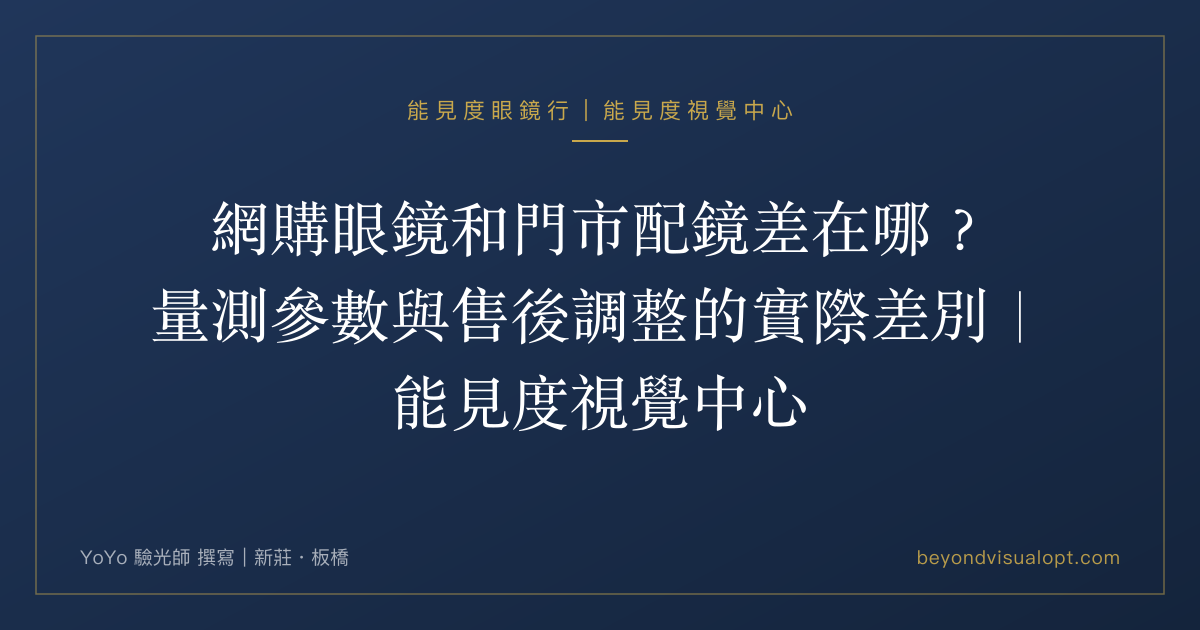
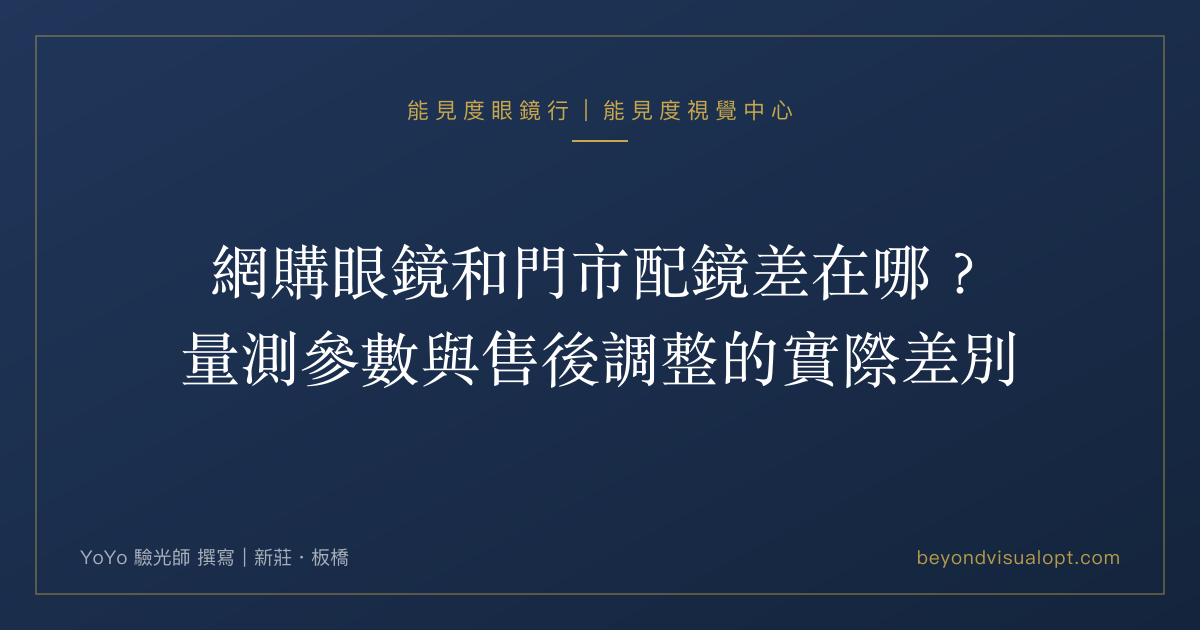
配眼鏡分類第 1 步：標題修正＋已上線錯誤緊急修正（國文編審→法務→交叉快篩🟢）
- 新莊／板橋配眼鏡指南表格依施行細則第四條更正（眼鏡公司須設驗光所才能驗光），結論句重寫；拿掉新莊 FAQ 價格
- 全站英文頁拿掉「free」，只保留「取件後鏡架調整不另外收費（限在能見度配的眼鏡）」
- glasses-dizzy 頂點距離數字更正為約 0.2D／0.4D，附換算公式；稜鏡改寫為「驗光結果中加入稜鏡補償」
- HOYA 改為「經銷」；choose-optician 中英版轉介句、兒童列、儀器名、白話結論與 3 秒重點
- online-frame、old-frame 常見問題格式修正（schema 0→4 題）；4 篇🟢文章換標題並重產分享圖卡

Changed region(s): [[0.1233, 0.3016, 0.8633, 0.6937], [0.8017, 0.3317, 0.8325, 0.3619]]

diff --git a/src/content/blog/online-glasses-vs-store.md b/src/content/blog/online-glasses-vs-store.md
@@ -1,5 +1,5 @@
 ---
-title: 網購眼鏡和門市配鏡差在哪？量測參數與售後調整的實際差別｜能見度視覺中心
+title: 網購眼鏡和門市配鏡差在哪？量測參數與售後調整的實際差別
 date: 2026-08-08
 tag: "配鏡知識"
 excerpt: 網購眼鏡的度數通常是對的，差別在度數以外那幾個量測參數，以及交件之後還能不能調。這篇把訂單上填得到的欄位和配鏡實際會用到的資料排在一起比較，也說清楚我們接受帶網購框來配鏡片，還有哪些框我們會建議別勉強。新莊、板橋能見度視覺中心，由驗光人員量測與評估。
@@ -19,7 +19,7 @@ instagram: ""
 
 ---
 
-## 一副眼鏡要用到的資料，不只訂單上那幾欄
+## 網購眼鏡和門市配鏡，差在度數以外的參數
 
 | 配鏡要用到的資料 | 網路訂購時通常怎麼來 | 門市怎麼來 |
 |---|---|---|
@@ -32,25 +32,35 @@ instagram: ""
 | **交件之後** | 多以退換貨處理 | 可回店追蹤與調整 |
 | **裝配工藝（無框、半框）** | 依平台既定加工方式 | 依框的結構現場開槽或鑽孔裝配 |
 
-表上沒有哪一邊比較高級，兩邊給的東西不一樣。
+表上沒有哪一邊比較高級，兩邊給的東西不一樣。為什麼度數對了還是會不對？把上面幾格串起來就清楚了。
 
-為什麼度數對了還是會不對？把上面幾格串起來就清楚了。每片鏡片都有一個光學中心，是它光學表現最理想的那一點，配鏡時這一點必須對準你的瞳孔。對不準，光線就從偏掉的位置通過，產生非預期的稜鏡效應，眼睛得多花力氣代償，度數越深放大得越明顯（原理寫在[瞳距（PD）是什麼、量錯了會怎樣](/blog/pupillary-distance-pd/)）。
+### 光學中心與瞳距
 
-還有一項更少被提到：鏡片離眼睛多遠，會改變它實際發揮的度數。同一副眼鏡往鼻樑下滑幾毫米，[頂點距離](/blog/vertex-distance/)就變了，高度數的人這點差距是有感的。而滑不滑、貼不貼，取決於鏡腳和鼻墊有沒有照你的臉調過，這件事必須有你的臉在現場。
+每片鏡片都有一個光學中心，是它光學表現最理想的那一點，配鏡時這一點必須對準你的瞳孔。對不準，光線就從偏掉的位置通過，產生非預期的稜鏡效應，眼睛得多花力氣代償，度數越深放大得越明顯（原理寫在[瞳距（PD）是什麼、量錯了會怎樣](/blog/pupillary-distance-pd/)）。
+
+### 頂點距離與鏡架貼合
+
+比瞳距更少被提到的，是鏡片離眼睛多遠：這會改變它實際發揮的度數。同一副眼鏡往鼻樑下滑幾毫米，[頂點距離](/blog/vertex-distance/)就變了，高度數的人這點差距是有感的。而滑不滑、貼不貼，取決於鏡腳和鼻墊有沒有照你的臉調過，這件事必須有你的臉在現場。
 
 ---
 
-## 怎麼選：度數深不深、要不要無框，答案就分兩邊
+## 網購眼鏡適合誰？哪些人建議到門市配
+
+### 適合網購：度數不高、當備用
 
 度數不高、幾乎沒有散光，要的是一副備用眼鏡（放車上、放辦公室、或當太陽眼鏡），網購是合理的選擇。這種條件下參數的容錯空間比較大，把度數和瞳距抄準，多半就堪用。
 
-度數深、散光度數大、要配漸進多焦點，或想選無框、半框的人，情況反過來。這幾類對光學中心的位置與裝配工藝特別敏感，偏一點就反應在戴起來的感受上，建議現場量測與裝配。
+### 建議到門市：度數深、散光大、多焦點、無框半框
 
-已經買了、戴起來就是怪的人，先別急著判定自己不適應。量一次：把現有眼鏡的度數與光學中心位置量出來，跟你的瞳距、配鏡高度比對，才知道問題出在參數還是鏡架沒調。
+情況反過來的是這四類。它們對光學中心的位置與裝配工藝特別敏感，偏一點就反應在戴起來的感受上，建議現場量測與裝配。
+
+### 已經買了、戴起來怪
+
+先別急著判定自己不適應。量一次：把現有眼鏡的度數與光學中心位置量出來，跟你的瞳距、配鏡高度比對，才知道問題出在參數還是鏡架沒調。
 
 ---
 
-## 帶來門市，可以做的幾件事
+## 網購眼鏡帶來門市，可以做的事
 
 先量現有眼鏡的實際度數與光學中心落點，再量你的瞳距與配鏡高度，然後看框。鏡架能調的就調，鼻墊、鏡腳、傾斜角調完，有時候脹的感覺就消掉一半。
 
@@ -72,25 +82,23 @@ instagram: ""
 
 ---
 
-## 常見問題
+## 網購眼鏡常見問題
 
-**Q：網購眼鏡的度數填對了，為什麼戴起來還是怪？**
+### Q：網購眼鏡的度數填對了，為什麼戴起來還是怪？
 
 因為度數只決定「鏡片磨多強」，另一組參數決定「這個度數對在哪」。鏡片的光學中心要對準瞳孔，得用到瞳距與配鏡高度；鏡片離眼睛的距離（頂點距離）會影響它實際發揮的度數；鏡框在臉上的傾斜角度也會改變光線通過的路徑。這幾項在網路訂購流程裡多半量不到，只能用平均值或出廠設定。度數對、位置偏，戴起來就是說不上來的脹或暈，度數越深越明顯。建議把眼鏡帶到門市，由驗光人員量過再判斷。
 
-**Q：網購買的鏡框，可以帶到門市配鏡片嗎？**
+### Q：網購買的鏡框，可以帶到門市配鏡片嗎？
 
 可以，這是常做的服務。框帶來，做完整驗光與瞳距、配鏡高度、頂點距離、鏡架配適的量測後選配鏡片、裝配，就是一副能戴的眼鏡，量測標準跟在店裡選框的完全一樣。費用是鏡片價格加固定加工費，不因框的來源加價，報價在製作前講清楚。動工前框況與材質由驗光人員檢視，材質老化或破損風險較高的框會先告知風險，你同意後才做。
 
-**Q：網購眼鏡戴起來不舒服，門市可以幫我調嗎？**
+### Q：網購眼鏡戴起來不舒服，門市可以幫我調嗎？
 
 可以先看。鏡架調整（鼻墊、鏡腳、傾斜角）能不能調得動要看框的結構與材質，有些材質施力過大會有變形或斷裂的風險，所以會先評估再動手。但如果不舒服的原因是光學中心偏掉或度數本身不合，調鏡架幫助有限，那是位置與度數的問題。量測比對之後才知道屬於哪一種。
 
 ---
 
-## 度數對了，配鏡才剛開始
-
-桌上那副眼鏡最後留了下來。量完瞳距與配鏡高度，發現光學中心比他的瞳孔低了一段，鏡架也早就被撐開。框況沒問題，於是調好鏡架、重新配一組鏡片，框繼續用。
+那位說戴起來會脹的顧客，網購那副眼鏡最後留了下來。量完瞳距與配鏡高度，發現光學中心比他的瞳孔低了一段，鏡架也早就被撐開。框況沒問題，於是調好鏡架、重新配一組鏡片，框繼續用。
 
 要判斷你手上那副是哪一種情況，帶著它來一趟比隔著螢幕猜快得多。[自帶鏡框配鏡片指南](/guide/byo-frame-lenses/)那頁有完整流程跟收費方式，想直接帶框來的先看那個。
 

diff --git a/src/content/blog-en/xinzhuang-glasses-guide.md b/src/content/blog-en/xinzhuang-glasses-guide.md
@@ -2,7 +2,7 @@
 title: "Where to Get a Vision Exam and Glasses in Xinzhuang, New Taipei: A Guide for English Speakers"
 date: 2026-06-25
 tag: "Local Guide"
-excerpt: "Living in Xinzhuang and need glasses or a vision exam? Here's how Taiwan's optometry clinics differ from regular glasses shops, what to ask before you buy, and where to find a store near Fuda MRT Station that can explain the basics in English."
+excerpt: "Living in Xinzhuang and need glasses or a vision exam? Here's how Taiwan's optometry clinics differ from regular glasses shops, what to ask before you buy, and where to find a store near Xinzhuang MRT Station that can explain the basics in English."
 image: ""
 youtube: ""
 instagram: ""
@@ -23,12 +23,11 @@ Something many newcomers to Taiwan don't realize: a licensed "optometry clinic" 
 | | Optometry clinic | Regular glasses shop |
 |--|------|----------|
 | Legal basis | Optometrists Act | Standard business registration |
-| Performing vision exams | Licensed optometrists required | No qualification requirement |
-| Issuing refraction reports | Legal | Not legal |
-| Binocular vision assessment | Available | Not available |
-| National Health Insurance contracts | Some clinics | No |
+| Performing vision exams | Licensed optometrists required | Must set up an in-store optometry office staffed by licensed optometry personnel |
 
-**Bottom line: if you have any visual complaints — dizziness with glasses, eye strain, prescriptions that never seem right — go to a licensed optometry clinic, not a regular glasses shop.** If you just need a new pair, your prescription has been stable for years, and you have no special needs, a regular shop can handle it.
+Under Article 4 of the Enforcement Rules of the Optometrists Act, a glasses shop that wants to perform vision exams must set up a registered optometry office in the store.
+
+**Bottom line: if you have any visual complaints — dizziness with glasses, eye strain, prescriptions that never seem right — look for a place that does a full exam including a binocular vision assessment, not just a prescription check.** If your prescription has been stable for years and you have no special needs, you have more options.
 
 ---
 
@@ -44,7 +43,7 @@ A complete clinical vision exam takes at least 45 minutes. A 10–15 minute "qui
 ZEISS, HOYA, Essilor, and Nikon are the mainstream premium lens brands in Taiwan. Confirm the shop is an authorized dealer rather than selling counterfeits or grey-market imports.
 
 **4. Can I come back for adjustments if the glasses feel off?**
-A reputable clinic or shop should offer free follow-up visits and adjustments. Be cautious of anywhere that doesn't provide after-sales service.
+Before choosing a shop, ask whether you can come back for adjustments and whether there's a charge. For glasses fitted at Beyond Visual, frame adjustments after pickup are not charged separately.
 
 **5. Do they offer myopia tracking for children?**
 If you're getting glasses for your child, their prescription needs regular monitoring. Make sure the shop offers scheduled re-examinations rather than a one-and-done sale.
@@ -53,7 +52,7 @@ If you're getting glasses for your child, their prescription needs regular monit
 
 ## Beyond Visual Optometry (Xinzhuang)
 
-**Address:** No. 419-1, Zhongzheng Road, Xinzhuang District, New Taipei City (about a 5-minute walk from Fuda MRT Station)
+**Address:** No. 419-1, Zhongzheng Road, Xinzhuang District, New Taipei City (about an 8-minute walk from Xinzhuang MRT Station)
 **Phone:** +886-2-2206-6700
 **License:** New Taipei City Optometry Clinic License No. 5Y31060655
 **Lead optometrist:** Optometrist YoYo (licensed optometrist, License No. 003309)
@@ -73,7 +72,7 @@ If you're getting glasses for your child, their prescription needs regular monit
 - Frame brands including Ray-Ban, OLIVER PEOPLES, EMPORIO ARMANI, BVLGARI, agnès b., and MINAMOTO
 - Expert repair, precision adjustment, and lens installation for premium frames such as Lindberg, ic! berlin, Cartier, and Chrome Hearts (repair expertise; not an authorized dealer)
 - Regular myopia tracking for children
-- Free follow-up visits and adjustments after your fitting
+- Frame adjustments after pickup are not charged separately for glasses fitted with us
 
 ---
 
@@ -85,7 +84,7 @@ Beyond Visual Optometry is located at No. 419-1, Zhongzheng Road, Xinzhuang Dist
 
 **Q: How much do glasses cost in Xinzhuang?**
 
-Lens prices vary widely by brand and function. Basic single-vision lenses run about NT$2,000–6,000; ZEISS progressive lenses start around NT$12,000 and can exceed NT$30,000 depending on the level of customization. It's worth clarifying your own needs before setting a budget.
+The cost depends on lens type, refractive index, coatings and frame, so an accurate quote comes after the exam and once you've chosen a frame. As an optometry clinic, our fee schedule is posted in the store as required by law.
 
 **Q: Is it convenient for Fu Jen Catholic University students and staff?**
 

diff --git a/src/content/blog-en/glasses-uncomfortable-3-reasons.md b/src/content/blog-en/glasses-uncomfortable-3-reasons.md
@@ -32,7 +32,7 @@ If you have **phoria** — a tendency for your eyes to drift out of alignment wh
 
 **Phoria is not the same as strabismus.** It's not a visible misalignment of the eyes, so most people have no idea they have this issue — and it's never been picked up, because a standard refraction doesn't test for it.
 
-### What Is Phoria?
+### What Does It Mean When Your Eyes Have to Work to Line Up?
 
 There's usually a slight gap between where your eyes naturally point at rest (with one eye covered) and where they actively align when working together with both eyes open — this gap is called the **phoria amount**.
 
@@ -48,7 +48,7 @@ A complete refraction at Beyond Visual Optometry includes:
 - **AC/A ratio assessment:** analyzes the relationship between accommodation and convergence
 - **Worth 4-dot test / stereopsis testing:** confirms binocular fusion function
 
-If the phoria amount exceeds what your eye muscles can compensate for, our licensed optometry staff will assess whether prism compensation should be added to your prescription; if vision therapy or further medical treatment is warranted, we'll help refer you to an ophthalmologist.
+If the phoria amount exceeds what your eye muscles can compensate for, our licensed optometry staff will assess whether prism compensation should be included in your refraction result; if vision therapy or further medical treatment is warranted, we'll help refer you to an ophthalmologist.
 
 ---
 
@@ -62,7 +62,7 @@ Glasses aren't as simple as "put the prescription into the lens." Lens design ha
 
 Single-vision lenses are optically optimized for static distance vision. If you sit in front of a computer for 8 hours, your eyes are constantly accommodating to a 50–70cm screen distance, keeping your ciliary muscle in a prolonged contracted state — feeling "exhausted" by the time you get home is a direct result.
 
-**Office lenses** or **ZEISS Digital Lens** build in a subtle accommodation-assist zone in the lower part of the lens, so your ciliary muscle doesn't have to work at full capacity for screen viewing, reducing fatigue at the source.
+**Office lenses** or **digital single-vision lenses** add a slight near power in the lower part of the lens; whether they suit you depends on your exam results and actual working distances.
 
 **Scenario 2: You have an early tendency toward presbyopia, but got fitted with a standard myopia prescription**
 
@@ -151,9 +151,9 @@ So the order matters: first establish whether the discomfort is even related to 
 
 Completely — and it's very common. The eye chart only tests static distance clarity; it doesn't test binocular coordination, accommodation, or visual comfort at your actual working distance. Someone can have 20/20 vision on the chart and still have poor binocular efficiency, leading to fatigue with extended use.
 
-**Q: Does phoria require surgery?**
+**Q: If your eyes have to work to line up, who handles treatment beyond glasses?**
 
-Most phoria doesn't require surgery. Mild phoria can often be improved with prism compensation added to the prescription for visual comfort; treatments like vision therapy and surgery fall under an ophthalmologist's evaluation, and are usually only considered for larger-angle, severe cases that can't be relieved another way.
+An ophthalmologist. A licensed optometrist can, where appropriate, include prism in the refraction result as the basis for your lenses, to make using both eyes together easier; treatments such as vision therapy or surgery are medical procedures, and whether they're needed is for an ophthalmologist to evaluate.
 
 **Q: If I'm still uncomfortable after getting glasses, should I go straight to an ophthalmologist or back to the optometrist?**
 

diff --git a/src/content/blog-en/banqiao-glasses-guide.md b/src/content/blog-en/banqiao-glasses-guide.md
@@ -23,12 +23,11 @@ This article is here to help you understand **what actually matters when getting
 | | Optometry Clinic | Regular Glasses Shop |
 |--|------|----------|
 | Legal basis | Optometrists Act | Standard business registration |
-| Exam qualification | Licensed optometrist required | No requirement |
-| Full binocular vision assessment | Available | Not available |
-| Refraction report | Legally issued | Not legal |
-| Handling complex visual issues | Equipped to assess | Not equipped to assess |
+| Exam qualification | Licensed optometrist required | Must set up an in-store optometry office staffed by licensed optometry personnel |
 
-In short: **if all you need is a simple, straightforward myopia prescription, a regular glasses shop can handle that. But if you have dizziness, eye strain, presbyopia, or a need for progressive lenses, go to a licensed optometry clinic** — this isn't just a matter of preference; it's how the regulations divide the work.
+Under Article 4 of the Enforcement Rules of the Optometrists Act, a glasses shop that wants to perform vision exams must set up a registered optometry office in the store.
+
+In short: **if your prescription is stable and you just want a new pair of myopia glasses, the bar is lower; but if you have dizziness, eye strain, presbyopia, or a need for progressive lenses, look for an optometry clinic that does a full exam including a binocular vision assessment.**
 
 ---
 
@@ -71,13 +70,11 @@ People staring at a screen more than 8 hours a day have a noticeably higher rate
 - Professional progressive lens fitting and adaptation-period follow-up for presbyopia
 - Regular myopia tracking for children
 - Precision fitting for high myopia (with vertex-distance compensation)
-- Free follow-up adjustments after your fitting
+- Frame adjustments after pickup are not charged separately for glasses fitted with us
 
 ---
 
 ## 30 Years in Banqiao, and We've Never Chased the Low Price
-
-Since opening in 1992, Beyond Visual Optometry has seen far too many customers pay a much higher price for "cheap glasses" — refitting, dizziness, worsening vision.
 
 Our position is clear: **we don't chase the most expensive option, only the one that actually fits you.** Every pair we fit is recommended after a full vision exam, based on your visual needs, lifestyle, and face shape — never just pulled off a shelf to fill an order.
 
@@ -89,7 +86,7 @@ Our position is clear: **we don't chase the most expensive option, only the one 
 A: Beyond Visual Optometry is located at No. 28, Ln. 47, Sec. 2, Shuangshi Rd., Banqiao Dist., New Taipei City, a certified ZEISS partner dealer, phone +886-2-2253-1246, about a 5-minute walk from Jiangzicui MRT Station.
 
 **Q: Where's the most reliable place in Banqiao to get progressive lenses?**
-A: Progressive lenses need a full assessment from a licensed optometrist at an optometry clinic, including addition-power measurement, fitting-height measurement, and lifestyle analysis. Beyond Visual Optometry (Banqiao) provides a complete progressive-lens fitting process along with adaptation-period follow-up.
+A: Progressive lenses need a full assessment by licensed optometry staff at an optometry clinic, including addition-power measurement, fitting-height measurement, and lifestyle analysis. Beyond Visual Optometry (Banqiao) provides a complete progressive-lens fitting process along with adaptation-period follow-up.
 
 **Q: How long does it typically take to get glasses made in Banqiao?**
 A: Standard single-vision lenses generally take 3–7 business days; ZEISS Individual² custom lenses take about 10–14 business days (manufactured at the ZEISS factory in Germany).

diff --git a/src/content/blog/xinzhuang-glasses-guide.md b/src/content/blog/xinzhuang-glasses-guide.md
@@ -27,12 +27,11 @@ instagram: ""
 | | 驗光所 | 一般眼鏡行 |
 |--|------|----------|
 | 法規依據 | 驗光人員法 | 商業登記 |
-| 執行驗光 | 需持照驗光人員 | 無資格限制 |
-| 開立驗光報告 | 合法 | 不合法 |
-| 雙眼視覺評估 | 可執行 | 無法執行 |
-| 健保特約 | 部分有 | 無 |
+| 執行驗光 | 需持照驗光人員 | 須在店內設立驗光所，由持照驗光人員執行 |
 
-**結論：如果你有視覺困擾（頭暈、眼睛疲勞、度數老是不準），一定要去驗光所，而不是一般眼鏡行。** 只是要配鏡、度數穩定多年、沒有特殊需求，一般眼鏡行也可以應付。
+這一格的依據是《驗光人員法施行細則》第四條。換句話說，招牌寫什麼不是重點，要看店裡有沒有登記驗光所，查法可以看[驗光師和驗光生差在哪？怎麼確認幫你驗光的人有執照](/blog/optometrist-license-check/)。
+
+**結論：如果你有視覺困擾（頭暈、眼睛疲勞、度數老是不準），要找能做完整驗光、包含雙眼視覺評估的地方，不是只量度數。** 度數穩定多年、沒有特殊需求，選擇就寬得多。
 
 ---
 
@@ -48,7 +47,7 @@ instagram: ""
 蔡司（ZEISS）、HOYA、Essilor、Nikon 是台灣主流高端鏡片品牌。確認是否為原廠授權經銷商，而非仿冒品或水貨。
 
 **4. 配鏡後如果不舒服可以回店嗎？**
-正規的驗光所或眼鏡行應提供免費回店調整服務。不提供售後服務的店家要注意。
+配鏡後能不能回店調整、要不要另外收費，選店前先問清楚。在能見度配的眼鏡，取件後的鏡架調整不另外收費。
 
 **5. 有沒有兒童近視追蹤服務？**
 如果是幫孩子配鏡，需要定期追蹤度數變化。確認店家有提供定期複驗服務，而不是配完就結束。
@@ -59,19 +58,17 @@ instagram: ""
 
 能見度視覺中心 × 比泱驗光所就在新莊中正路419-1號，捷運新莊站步行約 8 分鐘，由持照驗光人員一對一驗光，主理驗光師是鄭家侑（YoYo）。
 
-**交通、營業時間、完整服務項目與常見問題 → [新莊眼鏡行・驗光所門市介紹](/xinzhuang/)**
+**交通、停車、營業時間、完整服務項目與常見問題 → [新莊眼鏡行・驗光所門市介紹](/xinzhuang/)**
 
 ---
 
 ## 常見問題
 
 **Q：配眼鏡大概多少錢？**
-A：鏡片費用依品牌和功能差異大。基本單光鏡片約 NT$2,000–6,000；蔡司多焦點約 NT$12,000–30,000 以上（依訂製程度）。配鏡前建議先了解自己的需求再評估預算。
+A：費用依鏡片種類、折射率、鍍膜與鏡框而定，驗光完、選好鏡框才報得準。驗光所的收費標準依法揭示在門市，來店就看得到。
 
 **Q：輔大學生可以去嗎？**
 A：當然可以。能見度視覺中心就在中正路上、距輔大步行可達，有許多輔大師生是我們的長期顧客。
-
-> 想找新莊眼鏡行推薦的實體門市？看看 [新莊店介紹與交通資訊](/xinzhuang/)——地址、捷運步行時間、停車與營業時間都在那頁。
 
 ---
 

diff --git a/src/content/blog-en/banqiao-progressive-lens-guide.md b/src/content/blog-en/banqiao-progressive-lens-guide.md
@@ -35,7 +35,7 @@ The real question was never "do I have presbyopia" — it's **how you're going t
 - **Frame drift** — a frame that shifts or loosens over time, taking the optical center with it
 - **An incomplete adaptation period** — your brain needs 2–4 weeks to learn the new visual zones
 
-In other words: **whether progressives work out for you is half about the lens, half about the fitting and adjustment.** This is exactly why it matters to choose a store with a thorough eye-exam process and a willingness to provide free follow-up adjustments after the fitting.
+In other words: **whether progressives work out for you is half about the lens, half about the fitting and adjustment.** This is exactly why it matters to choose a store with a thorough eye-exam process and clear terms for follow-up adjustments after the fitting.
 
 ## Thing Three: What a 45–60 Minute Exam Gets You That a 10-Minute One Doesn't
 
@@ -53,7 +53,7 @@ If you have a strong prescription, significant astigmatism, or are particular ab
 
 Progressive lenses come with an adaptation period, and frames drift out of alignment. When you're choosing a store, just ask one question directly: "**Is there a charge for adjustments after I pick up my glasses?**"
 
-Beyond Visual Optometry's answer: no. Adaptation-period follow-up visits and precision frame adjustments are both free — because the fitting isn't done until it's actually comfortable.
+Beyond Visual Optometry's answer: no. For glasses fitted with us, adaptation-period follow-up and frame adjustments after pickup are included at no extra charge — because the fitting isn't done until it's actually comfortable.
 
 ---
 
@@ -71,7 +71,7 @@ Beyond Visual Optometry's answer: no. Adaptation-period follow-up visits and pre
 
 **Q: Where in Banqiao can I get progressive lenses?**
 
-Beyond Visual Optometry is located at No. 28, Ln. 47, Sec. 2, Shuangshi Rd., Banqiao Dist., New Taipei City, about a 5-minute walk from Jiangzicui MRT Station, founded in 1992. We offer a complete progressive-lens fitting process: addition-power assessment, fitting-height and pantoscopic-tilt measurement, and free follow-up adjustments during the adaptation period. We're a certified ZEISS dealer.
+Beyond Visual Optometry is located at No. 28, Ln. 47, Sec. 2, Shuangshi Rd., Banqiao Dist., New Taipei City, about a 5-minute walk from Jiangzicui MRT Station, founded in 1992. We offer a complete progressive-lens fitting process: addition-power assessment, fitting-height and pantoscopic-tilt measurement, and follow-up adjustments during the adaptation period (frame adjustments after pickup are included at no extra charge for glasses fitted with us). We're a certified ZEISS dealer.
 
 **Q: How much do progressive lenses cost?**
 
